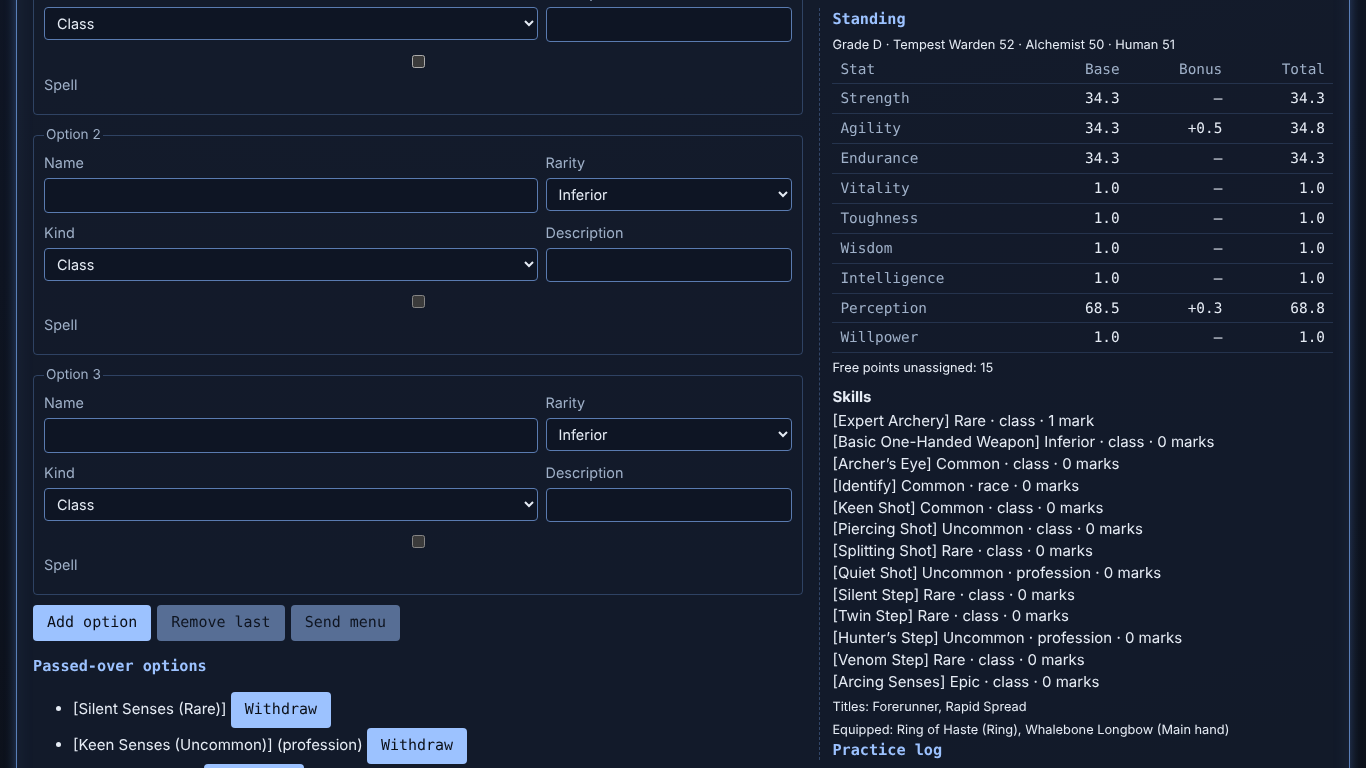
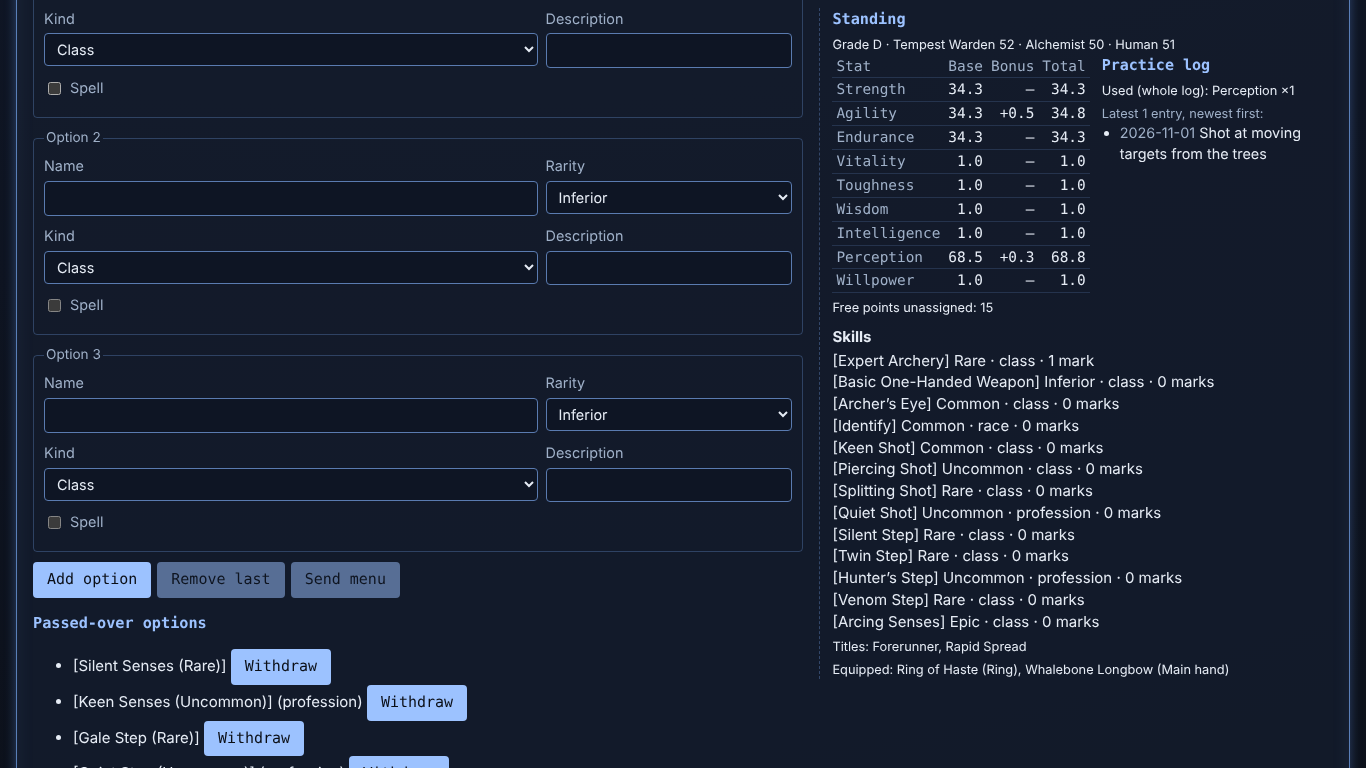
fix(MW.1): practice beside the stats, so the whole standing fits at 1366x768; spell toggle on one line
Review: the practice summary fell below the fold; plural fixed; slotKey used; profession case tested.

Claude-Session: https://claude.ai/code/session_015YxiCeffnc7sDKh9vpbUoK

diff --git a/apps/web/src/gm/OfferBuilder.tsx b/apps/web/src/gm/OfferBuilder.tsx
@@ -1,4 +1,4 @@
-import { useEffect, useRef, useState, type FormEvent } from 'react';
+import { useEffect, useRef, useState, type FormEvent, type ReactNode } from 'react';
 import type { CampaignState, RulesConfig, SkillOption } from '@the-system/engine';
 import { friendlyError } from '../format';
 import type { CommandResult, LiveClient } from '../live';
@@ -258,38 +258,50 @@ export function OfferBuilder({
               )}
             </div>
             <div className="offer-side" tabIndex={0} aria-label="Standing and practice">
-              {standing && <Standing rules={rules} standing={standing} />}
-              <aside aria-labelledby="offer-practice">
-                <h3 id="offer-practice">Practice log</h3>
-                {practice.length === 0 ? (
-                  <p className="muted">Nothing logged yet.</p>
+              {(() => {
+                const practiceSummary = (
+                  <aside aria-labelledby="offer-practice" className="offer-practice-side">
+                    <h3 id="offer-practice">Practice log</h3>
+                    {practice.length === 0 ? (
+                      <p className="muted">Nothing logged yet.</p>
+                    ) : (
+                      <>
+                        {counts.length > 0 && (
+                          <p className="small" data-testid="practice-counts">
+                            Used (whole log): {counts.join(' · ')}
+                          </p>
+                        )}
+                        {standing && standing.pairs.length > 0 && (
+                          <p className="small" data-testid="practice-pairs">
+                            Used together:{' '}
+                            {standing.pairs
+                              .map((p) => `[${p.skills[0]}] + [${p.skills[1]}] ×${p.count}`)
+                              .join(' · ')}
+                          </p>
+                        )}
+                        <p className="muted small">
+                          Latest {practice.length} {practice.length === 1 ? 'entry' : 'entries'},
+                          newest first:
+                        </p>
+                        <ul className="offer-practice">
+                          {practice.map((p) => (
+                            <li key={p.id}>
+                              <span className="muted small">{p.at.slice(0, 10)}</span> {p.action}
+                              {p.skills.length > 0 &&
+                                ` · ${p.skills.map((s) => `[${s}]`).join(' + ')}`}
+                            </li>
+                          ))}
+                        </ul>
+                      </>
+                    )}
+                  </aside>
+                );
+                return standing ? (
+                  <Standing rules={rules} standing={standing} practice={practiceSummary} />
                 ) : (
-                  <>
-                    {counts.length > 0 && (
-                      <p className="small" data-testid="practice-counts">
-                        Used (whole log): {counts.join(' · ')}
-                      </p>
-                    )}
-                    {standing && standing.pairs.length > 0 && (
-                      <p className="small" data-testid="practice-pairs">
-                        Used together:{' '}
-                        {standing.pairs
-                          .map((p) => `[${p.skills[0]}] + [${p.skills[1]}] ×${p.count}`)
-                          .join(' · ')}
-                      </p>
-                    )}
-                    <p className="muted small">Latest {practice.length} entries, newest first:</p>
-                    <ul className="offer-practice">
-                      {practice.map((p) => (
-                        <li key={p.id}>
-                          <span className="muted small">{p.at.slice(0, 10)}</span> {p.action}
-                          {p.skills.length > 0 && ` · ${p.skills.map((s) => `[${s}]`).join(' + ')}`}
-                        </li>
-                      ))}
-                    </ul>
-                  </>
-                )}
-              </aside>
+                  practiceSummary
+                );
+              })()}
             </div>
           </div>
         </>
@@ -299,7 +311,16 @@ export function OfferBuilder({
 }
 
 /** MW.1 (DESIGN §6): what the character already has, beside the menu. */
-function Standing({ rules, standing }: { rules: RulesConfig; standing: CharacterStanding }) {
+function Standing({
+  rules,
+  standing,
+  practice,
+}: {
+  rules: RulesConfig;
+  standing: CharacterStanding;
+  /** Beside the stats, so a long skill list never pushes it off the screen. */
+  practice: ReactNode;
+}) {
   const show = (n: number) => (n / rules.stats.displayDivisor).toFixed(rules.stats.displayDecimals);
   return (
     <section aria-labelledby="offer-standing" data-testid="offer-standing">
@@ -311,31 +332,36 @@ function Standing({ rules, standing }: { rules: RulesConfig; standing: Character
           : ` · ${standing.profession} ${standing.professionLevel ?? 0}`}
         {` · ${standing.race} ${standing.raceLevel}`}
       </p>
-      <table className="offer-standing-stats small">
-        <thead>
-          <tr>
-            <th scope="col">Stat</th>
-            <th scope="col">Base</th>
-            <th scope="col">Bonus</th>
-            <th scope="col">Total</th>
-          </tr>
-        </thead>
-        <tbody>
-          {standing.stats.map((s) => (
-            <tr key={s.id} data-testid={`standing-${s.id}`}>
-              <th scope="row">{s.name}</th>
-              <td>{show(s.base)}</td>
-              <td>
-                {s.bonus === 0 ? '–' : `${s.bonus > 0 ? '+' : '−'}${show(Math.abs(s.bonus))}`}
-              </td>
-              <td>{show(s.total)}</td>
-            </tr>
-          ))}
-        </tbody>
-      </table>
-      <p className="small" data-testid="standing-free">
-        Free points unassigned: {standing.freePoints}
-      </p>
+      <div className="offer-standing-top">
+        <div>
+          <table className="offer-standing-stats small">
+            <thead>
+              <tr>
+                <th scope="col">Stat</th>
+                <th scope="col">Base</th>
+                <th scope="col">Bonus</th>
+                <th scope="col">Total</th>
+              </tr>
+            </thead>
+            <tbody>
+              {standing.stats.map((s) => (
+                <tr key={s.id} data-testid={`standing-${s.id}`}>
+                  <th scope="row">{s.name}</th>
+                  <td>{show(s.base)}</td>
+                  <td>
+                    {s.bonus === 0 ? '–' : `${s.bonus > 0 ? '+' : '−'}${show(Math.abs(s.bonus))}`}
+                  </td>
+                  <td>{show(s.total)}</td>
+                </tr>
+              ))}
+            </tbody>
+          </table>
+          <p className="small" data-testid="standing-free">
+            Free points unassigned: {standing.freePoints}
+          </p>
+        </div>
+        {practice}
+      </div>
       <h4>Skills</h4>
       {standing.skills.length === 0 ? (
         <p className="muted small">None yet.</p>
@@ -617,7 +643,7 @@ function MenuForm({
               onChange={(e) => setRow(i, { description: e.target.value })}
             />
           </label>
-          <label>
+          <label className="offer-spell-toggle">
             <input
               type="checkbox"
               checked={r.spell}

diff --git a/apps/web/src/styles.css b/apps/web/src/styles.css
@@ -2509,11 +2509,30 @@ ol.change-log li.undone .change-text {
 .offer-side h4 {
   margin: 8px 0 2px;
 }
+/* MW.1: stats and practice side by side, so all of it fits at 1366x768. */
+.offer-standing-top {
+  display: grid;
+  grid-template-columns: max-content minmax(0, 1fr);
+  gap: 12px;
+  align-items: start;
+}
+.offer-practice-side {
+  max-height: 260px;
+  overflow-y: auto;
+}
+.offer-side .offer-practice-side h3 {
+  font-size: inherit;
+}
 .offer-standing-stats {
   border-collapse: collapse;
   width: 100%;
   font-family: var(--mono);
   margin-bottom: 6px;
+  overflow-wrap: normal;
+}
+.offer-standing-stats th,
+.offer-standing-stats td {
+  padding: 1px 4px;
 }
 .offer-standing-stats th {
   font-weight: normal;
@@ -2523,6 +2542,15 @@ ol.change-log li.undone .change-text {
 .offer-standing-stats td,
 .offer-standing-stats thead th:not(:first-child) {
   text-align: right;
+}
+.offer-spell-toggle {
+  display: flex;
+  flex-direction: row;
+  align-items: center;
+  gap: 6px;
+}
+.offer-spell-toggle input {
+  width: auto;
 }
 .offer-drafts {
   margin: 0 0 10px;
@@ -2547,6 +2575,12 @@ ol.change-log li.undone .change-text {
     border-left: none;
     padding-left: 0;
     position: static;
+    max-height: none;
+  }
+  .offer-standing-top {
+    grid-template-columns: minmax(0, 1fr);
+  }
+  .offer-practice-side {
     max-height: none;
   }
 }

diff --git a/e2e/MW.1.spec.ts b/e2e/MW.1.spec.ts
@@ -46,7 +46,14 @@ test('the skill-offer builder shows the standing beside the menu', async ({ brow
   const standingBox = (await standing.boundingBox())!;
   expect(standingBox.x).toBeGreaterThan(menuBox.x + menuBox.width - 1);
   await builder.scrollIntoViewIfNeeded();
+  // The whole standing fits on one screen beside the menu, practice included.
+  await builder
+    .getByTestId('offer-standing')
+    .evaluate((el) => el.scrollIntoView({ block: 'start' }));
   await gm.screenshot({ path: path.join(shots, 'gm-standing-1366x768.png') });
+  for (const id of ['practice-counts', 'standing-equipped', 'standing-titles']) {
+    await expect(builder.getByTestId(id)).toBeInViewport({ ratio: 1 });
+  }
 
   // Far down the menu form, the standing is still on screen.
   const send = builder.getByRole('button', { name: /send/i }).last();

diff --git a/apps/web/test/offerBuilderModel.test.ts b/apps/web/test/offerBuilderModel.test.ts
@@ -258,6 +258,23 @@ describe('the character standing (MW.1)', () => {
     expect(s.freePoints).toBeGreaterThan(0);
   });
 
+  it('a character with a profession shows it and its level', () => {
+    const state = campaign().state!;
+    const jake = state.characters['jake']!;
+    const s = characterStanding(
+      {
+        ...state,
+        characters: {
+          ...state.characters,
+          jake: { ...jake, profession: 'Alchemist', professionLevel: 4 },
+        },
+      },
+      'jake',
+    )!;
+    expect(s.profession).toBe('Alchemist');
+    expect(s.professionLevel).toBe(4);
+  });
+
   it('a character with no profession and no practice yet', () => {
     const state = campaign().state!;
     const s = characterStanding(state, 'jake')!;

diff --git a/packages/engine/src/standing/index.ts b/packages/engine/src/standing/index.ts
@@ -1,4 +1,4 @@
-import { itemEffectiveStats } from '../economy/model';
+import { itemEffectiveStats, slotKey } from '../economy/model';
 import { castingForSkill } from '../skills/library';
 import { raceLevel, unassignedPointsOf, type CharacterSkill } from '../character/model';
 import { titleSources } from '../titles';
@@ -156,7 +156,7 @@ export function characterStanding(
     titles: c.titles,
     equipped: rules.economy.equipmentSlots.flatMap((slot) =>
       Array.from({ length: slot.count }, (_, i) => {
-        const id = holdings.equipped[`${slot.id}:${i}`];
+        const id = holdings.equipped[slotKey(slot.id, i)];
         return id === undefined ? [] : [{ slot: slot.name, item: state.items[id]?.name ?? id }];
       }).flat(),
     ),
